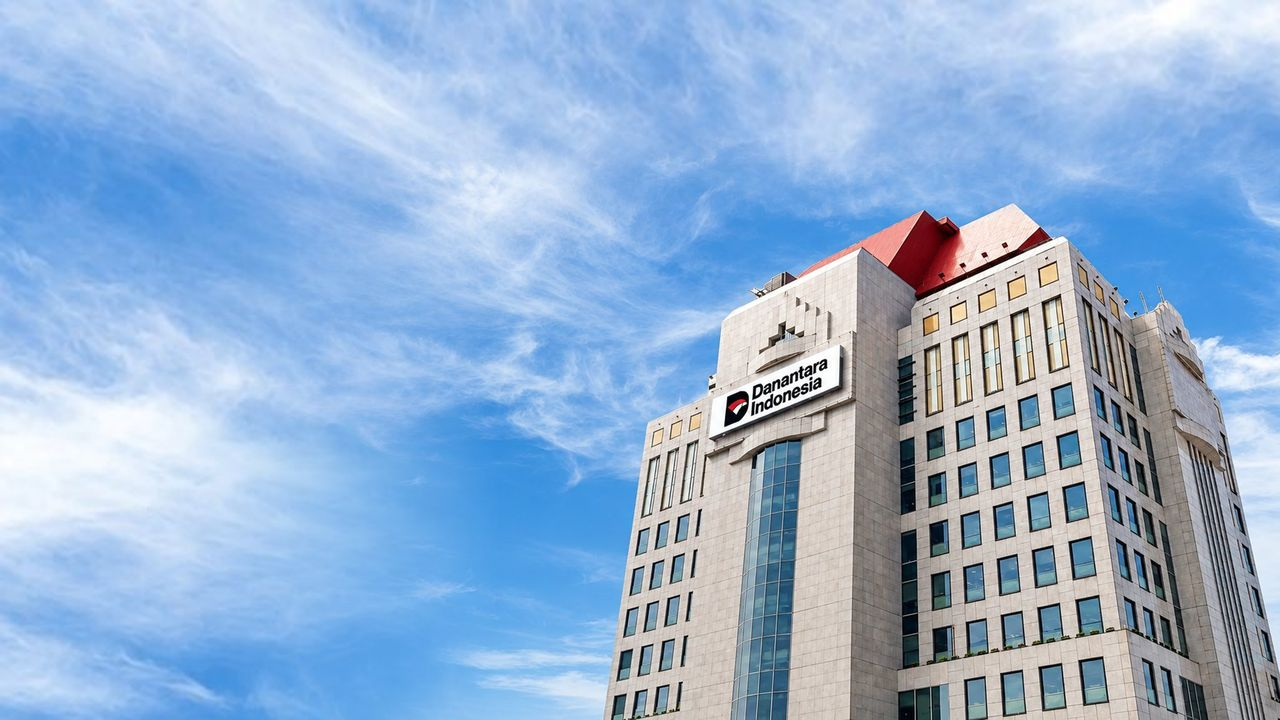
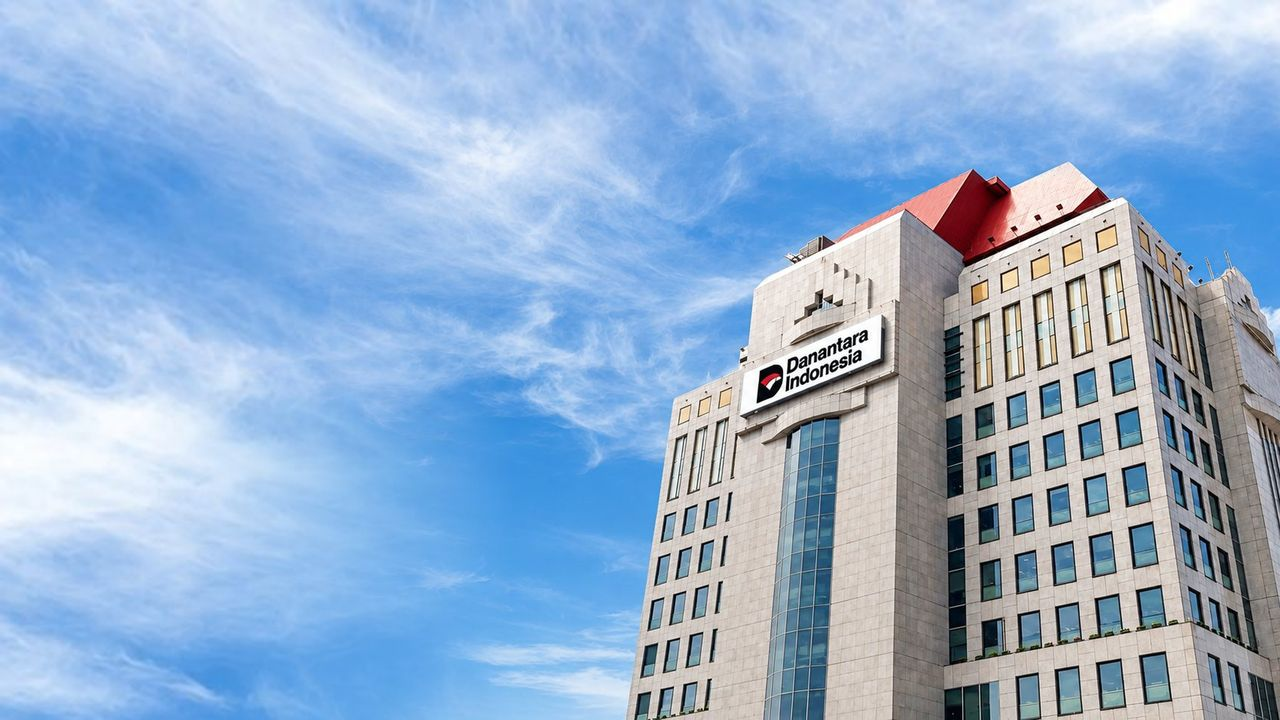
v0.28

diff --git a/danantara/core.js b/danantara/core.js
@@ -199,14 +199,14 @@
 .g-emorow .g-btn{width:auto!important;margin:0!important;white-space:nowrap}
 @media(max-width:1100px){.g-emorow .g-int{grid-template-columns:1fr}.g-emorow .g-rank{grid-template-columns:repeat(3,minmax(0,1fr))}}
 .g-vol-ht{grid-template-columns:minmax(0,1fr) auto!important}.g-htw{position:relative;height:140px;min-width:0}
-@media(min-width:1101px){#viewAnalitik .g-hero{grid-template-columns:minmax(0,560px) minmax(0,1fr)!important;max-width:none!important;align-items:end}#viewAnalitik .g-hero>div:first-child{grid-column:1/-1}}
+@media(min-width:1101px){#viewAnalitik .g-hero{grid-template-columns:minmax(0,560px) minmax(0,1fr)!important;max-width:none!important;align-items:stretch}#viewAnalitik .g-hero .g-kpis{align-content:stretch;grid-auto-rows:1fr}#viewAnalitik .g-emo-an{margin:0;display:flex;flex-direction:column;justify-content:space-between}#viewAnalitik .g-hero>div:first-child{grid-column:1/-1}}
 .g-emo-an .g-rank{display:grid;grid-template-columns:1fr 1fr;column-gap:22px;row-gap:8px;margin:10px 0 0}
 #viewAnalitik canvas,#viewAnalitik .g-vol svg,#viewAnalitik .g-list .bar i,#viewAnalitik .g-rank .bar i{filter:drop-shadow(0 0 6px rgba(80,170,255,.28))}
 #viewAnalitik .g-card{box-shadow:inset 0 1px 0 rgba(255,255,255,.05),0 0 0 1px rgba(80,170,255,.06),0 10px 30px rgba(0,0,0,.25)}
 .g-grid2{display:grid;grid-template-columns:repeat(2,minmax(0,1fr));gap:14px;margin-bottom:14px}@media(max-width:900px){.g-grid2{grid-template-columns:1fr}}
 /* Bar bercahaya: kilau + pendar, serasi dengan grafik garis */
 .g-rank .bar,.g-list .bar,.g-stack .sb{background:rgba(255,255,255,.05)!important;box-shadow:inset 0 0 0 1px rgba(255,255,255,.04)}
-.g-rank .bar i,.g-list .bar i,.g-stack .sb i{background-image:linear-gradient(180deg,rgba(255,255,255,.22),rgba(255,255,255,0) 65%)!important;filter:saturate(1.2) drop-shadow(0 0 5px rgba(120,180,255,.35)) drop-shadow(0 0 1px rgba(255,255,255,.4))!important}
+.g-rank .bar i,.g-list .bar i,.g-stack .sb i{box-shadow:inset 0 1px 0 rgba(255,255,255,.35);filter:saturate(1.2) drop-shadow(0 0 5px rgba(120,180,255,.35)) drop-shadow(0 0 1px rgba(255,255,255,.4))!important}
 .g-stack .sb{height:12px!important}
 [data-theme=light] .g-rank .bar,[data-theme=light] .g-list .bar,[data-theme=light] .g-stack .sb{background:rgba(4,7,10,.06)!important}
 .g-photo .ph-l{display:none}[data-theme=light] .g-photo .ph-l{display:block}[data-theme=light] .g-photo .ph-d{display:none}

diff --git a/danantara/index.html b/danantara/index.html
@@ -66,11 +66,11 @@
 <script src="loader.js?v=99"></script>
 <script>(function(){var done=false,fin=function(){if(done)return;done=true;try{GarudaLoader.complete()}catch(e){}};addEventListener("lok:update",fin,{once:true});setTimeout(function(){var l=document.getElementById("loading");if(l&&/Gagal/.test(l.textContent))fin()},4000);setTimeout(fin,20000);})();</script>
 
-<div id="heroBg" aria-hidden="true"><img class="hb-d" src="hero-dark.jpg?v=4" srcset="hero-dark-sm.jpg?v=4 1280w, hero-dark.jpg?v=4 2560w" sizes="100vw" alt="" fetchpriority="high" decoding="async"><img class="hb-l" src="hero-light.jpg?v=4" srcset="hero-light-sm.jpg?v=4 1280w, hero-light.jpg?v=4 2560w" sizes="100vw" alt="" decoding="async"></div>
+<div id="heroBg" aria-hidden="true"><img class="hb-d" src="hero-dark.jpg?v=4" srcset="hero-dark-sm.jpg?v=4 1280w, hero-dark.jpg?v=4 2560w" sizes="100vw" alt="" fetchpriority="high" decoding="async"><img class="hb-l" src="hero-light.jpg?v=5" srcset="hero-light-sm.jpg?v=5 1280w, hero-light.jpg?v=5 2560w" sizes="100vw" alt="" decoding="async"></div>
 <header class="topbar">
   <div class="brand">
     <img class="logo logo-dark" src="logo-dark.png?v=73" alt="Logo">
-    <img class="logo logo-light" src="logo-light.png?v=73" alt="Logo"><span class="beta" title="Versi 0.27 · diperbarui 31 Okt 2026">Beta<i class="ver">v0.27</i></span>
+    <img class="logo logo-light" src="logo-light.png?v=73" alt="Logo"><span class="beta" title="Versi 0.28 · diperbarui 31 Okt 2026">Beta<i class="ver">v0.28</i></span>
   </div>
   <div class="top-r">
       <div class="dr">
@@ -218,7 +218,7 @@
 <script src="app.js?v=101"></script>
 <script src="map.js?v=74"></script>
 <script src="hitrend.js?v=4"></script>
-<script src="core.js?v=107"></script>
+<script src="core.js?v=108"></script>
 <script src="analitik.js?v=88"></script>
 <script src="console.js?v=105"></script>
 <script src="narasi.js?v=103"></script>
